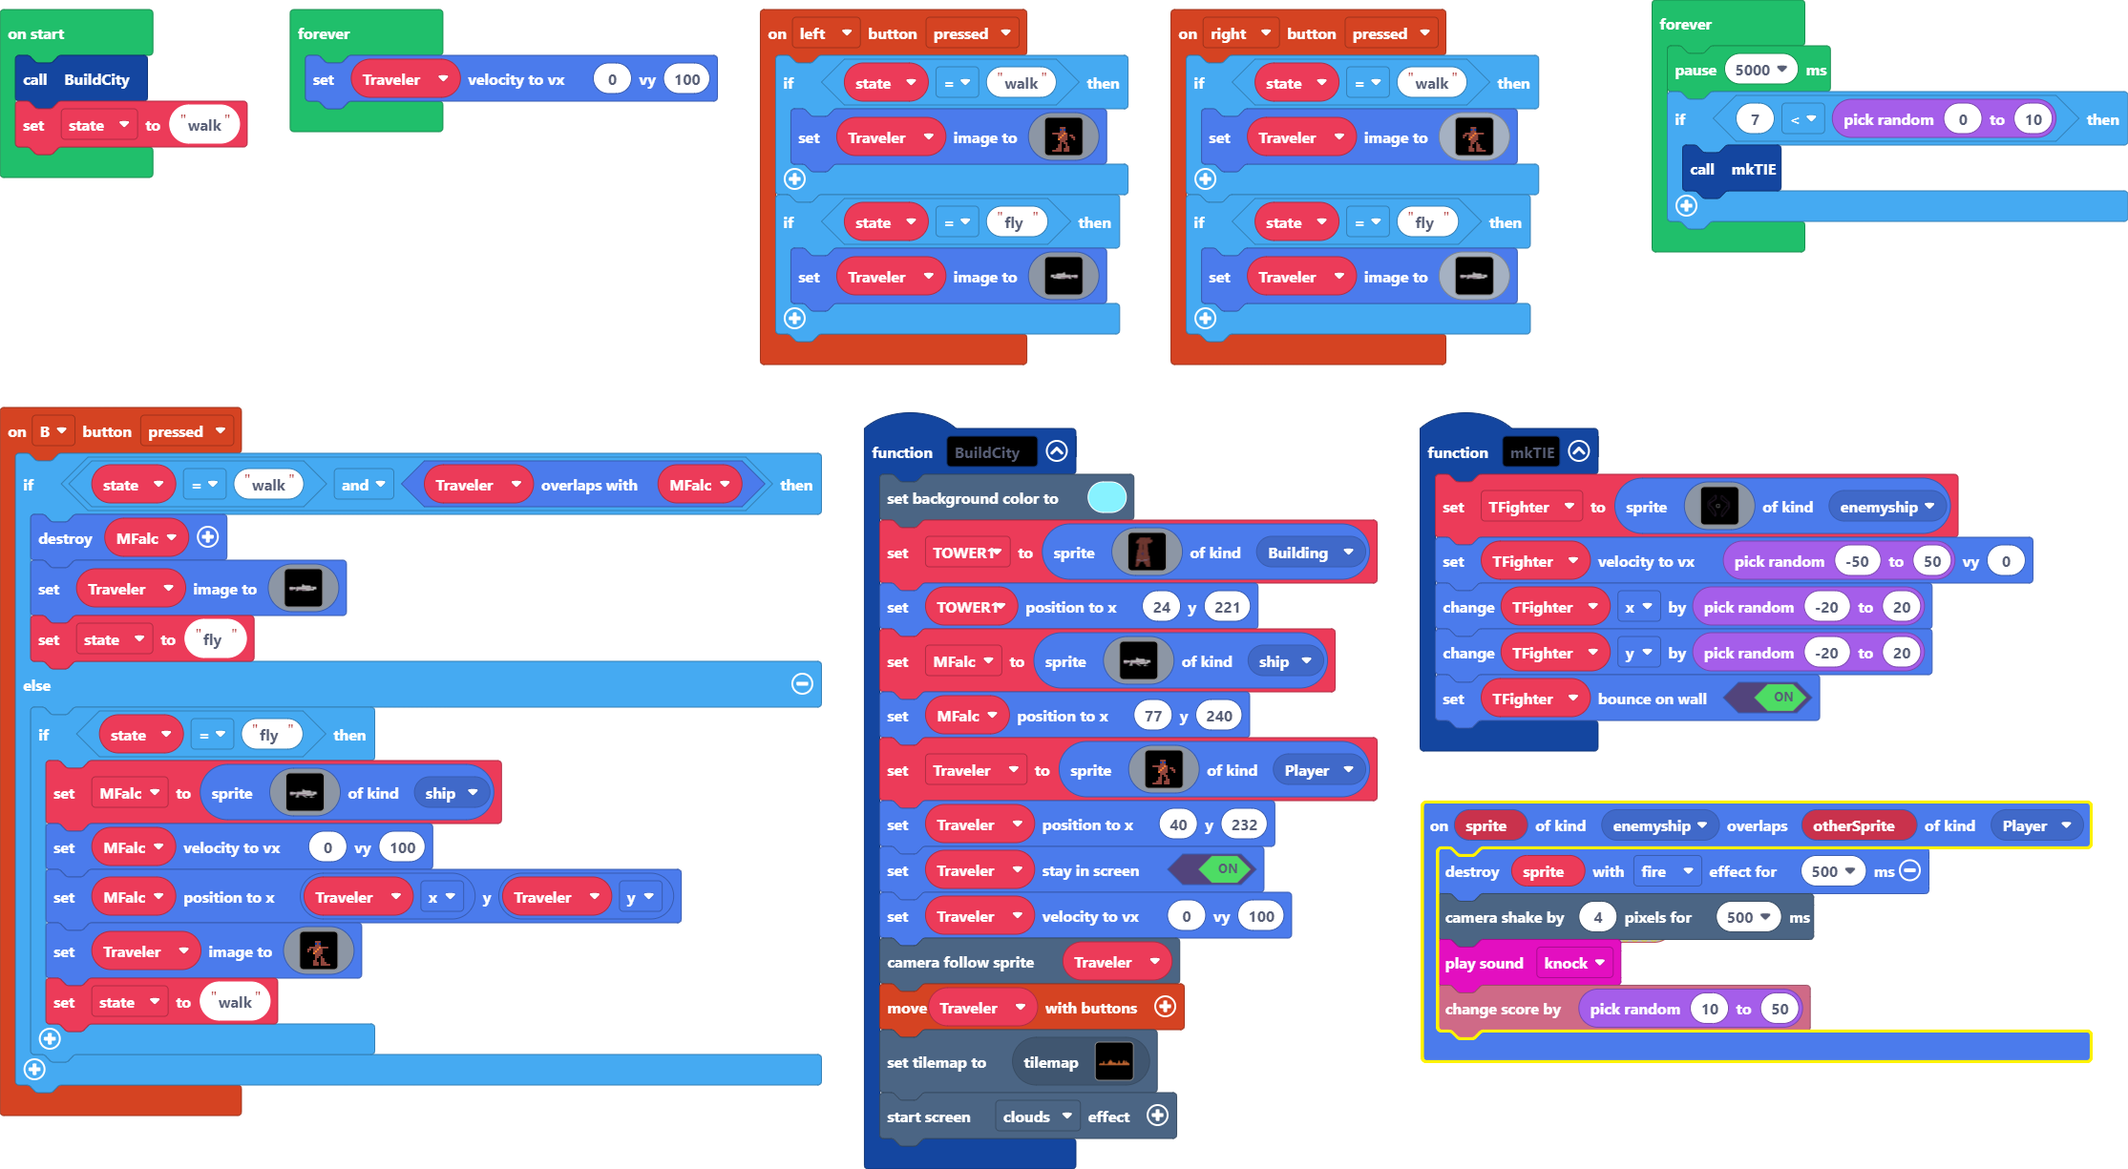
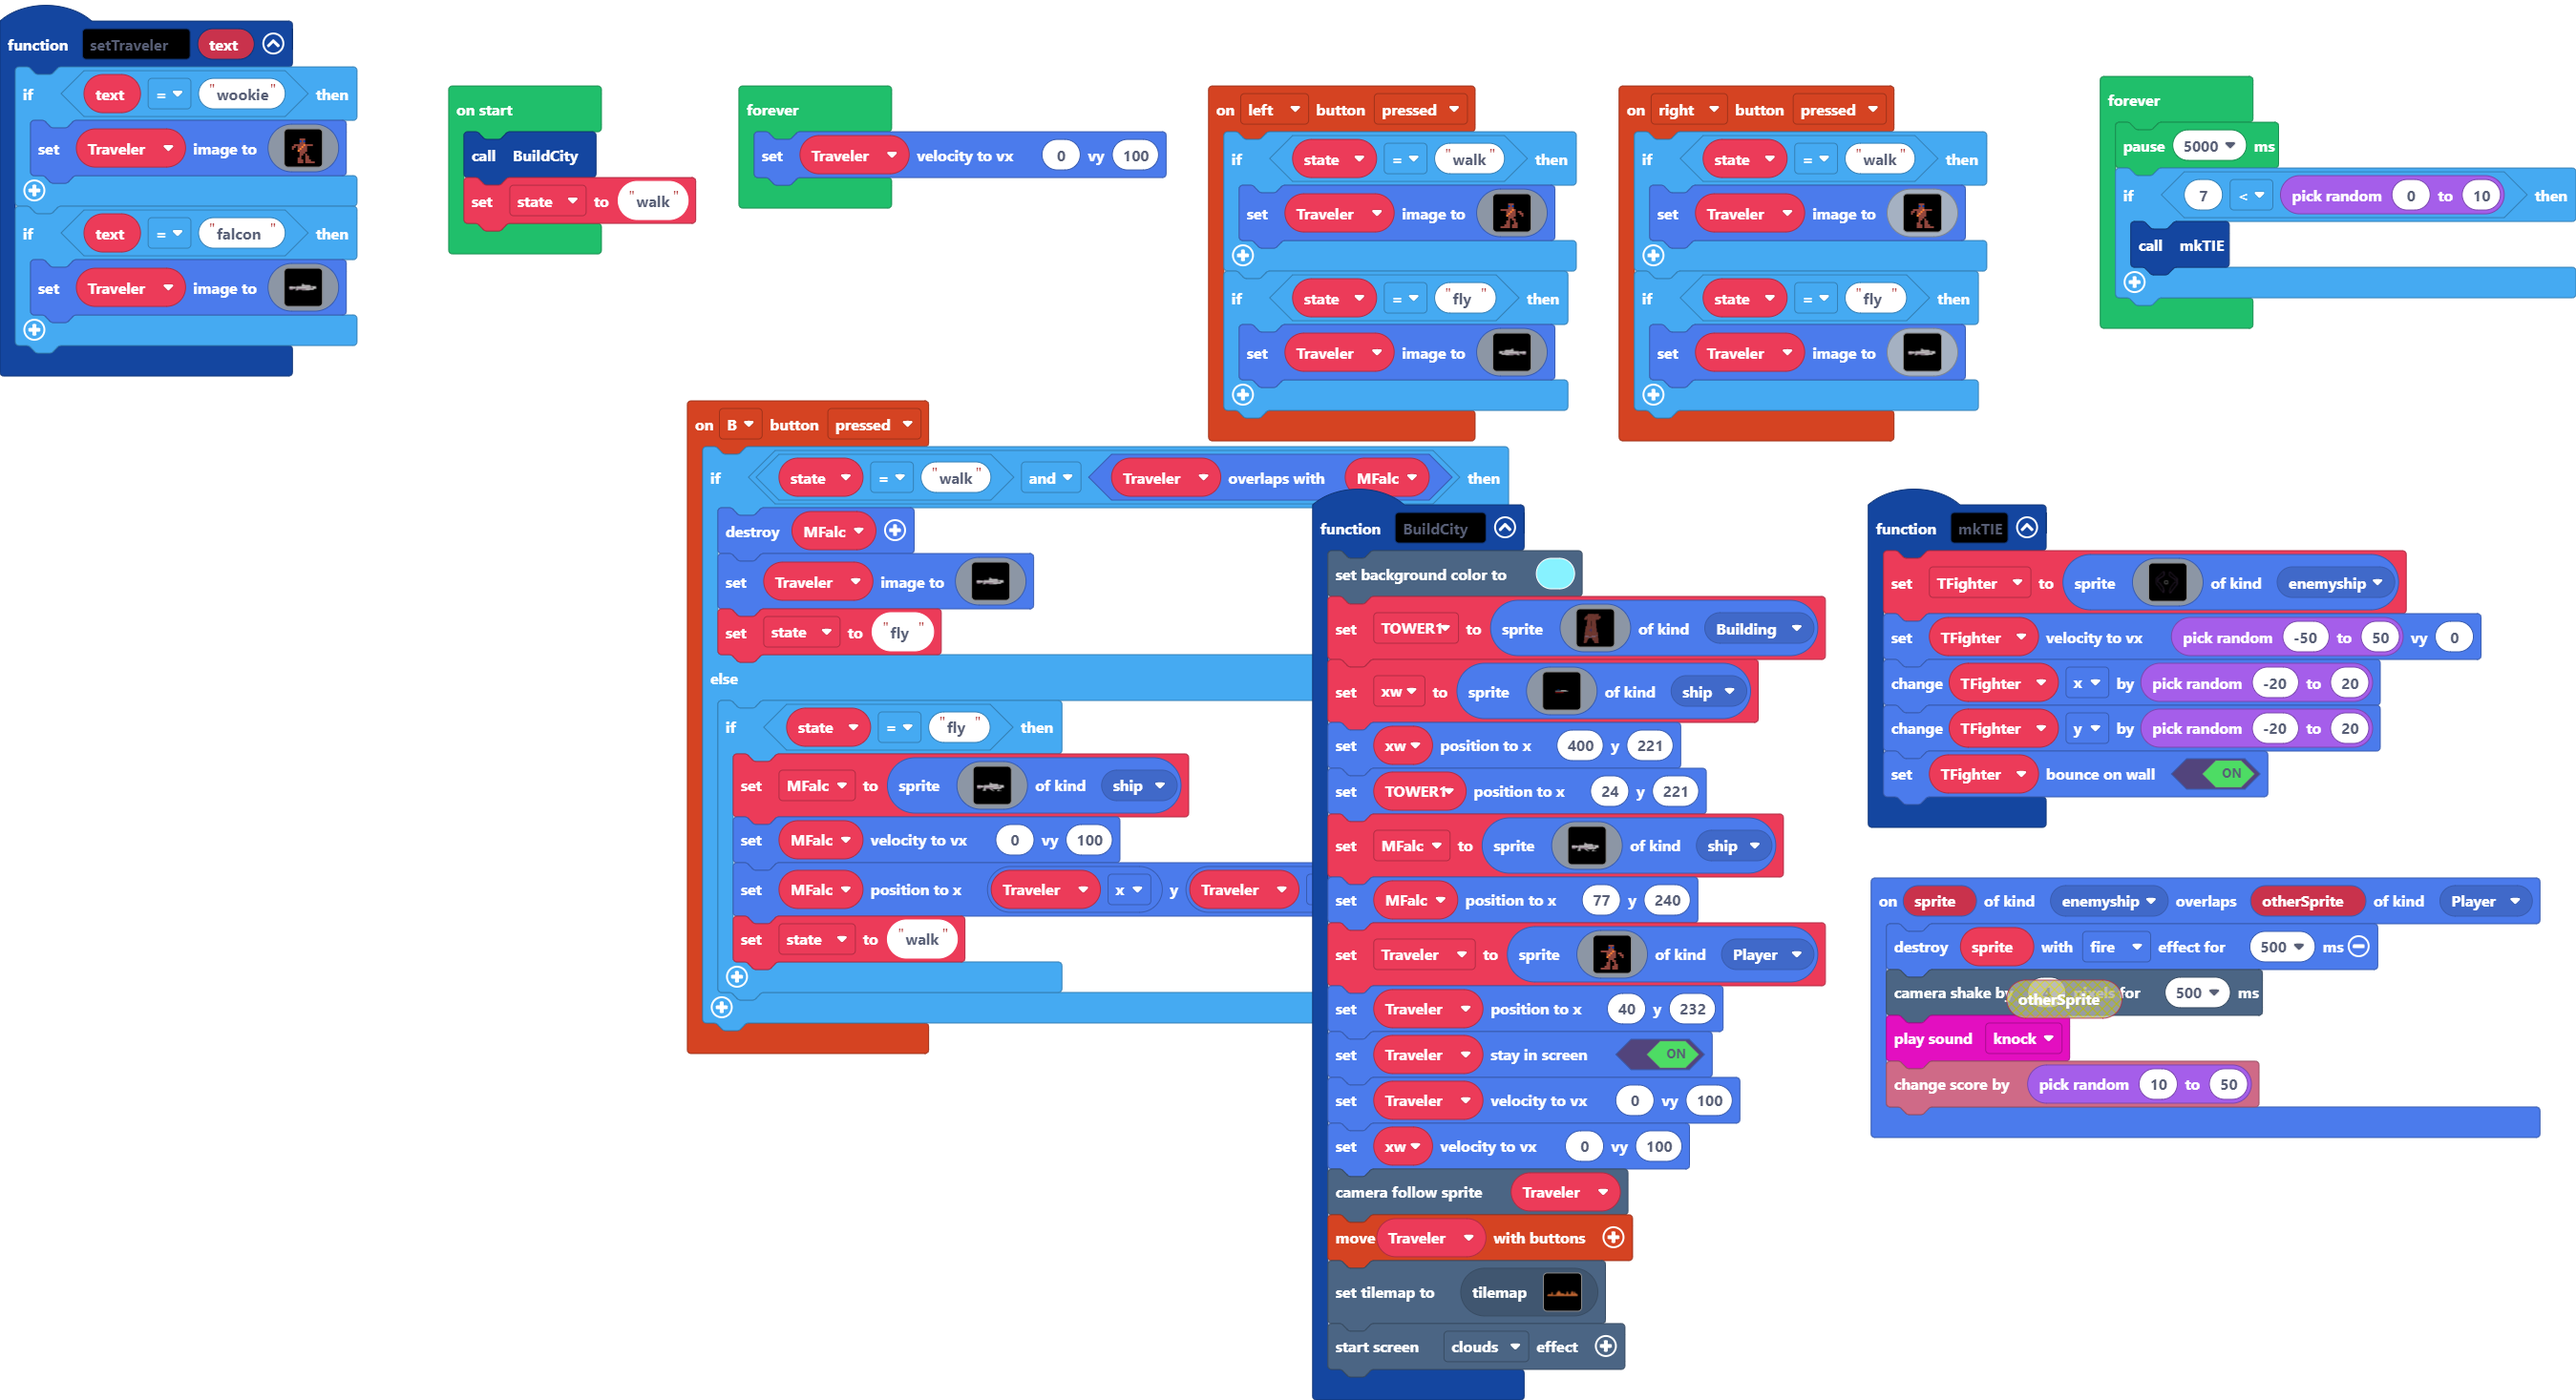
Update main.blocks, main.ts, tilemap.g.jres, tilemap.g.ts, images.g.jres, images.g.ts

diff --git a/tilemap.g.ts b/tilemap.g.ts
@@ -38,82 +38,6 @@ namespace myTiles {
 ................................................................
 ....................................................222222222...
 `, [myTiles.transparency16,myTiles.tile2,myTiles.tile3,myTiles.tile5,myTiles.tile6,myTiles.tile7], TileScale.Sixteen);
-            case "level2":
-            case "level2":return tiles.createTilemap(hex`1000100000000000000000000000000000000000000000000000000000000000000000000000000000000000000000000000000000000000000000000000000000000000000000000000000000000000000000000000000000000000000000000000000000000000000000000000000000000000000000000000000000000000000000000000000000000000000000000000000000000000000000000000000000000000000000000000000000000000000000000000000000000000000000000000000000000000000000000000000000000000000000000000000000000000000000000000000000000000000000000000000000000000000000000000000000000000`, img`
-. . . . . . . . . . . . . . . . 
-. . . . . . . . . . . . . . . . 
-. . . . . . . . . . . . . . . . 
-. . . . . . . . . . . . . . . . 
-. . . . . . . . . . . . . . . . 
-. . . . . . . . . . . . . . . . 
-. . . . . . . . . . . . . . . . 
-. . . . . . . . . . . . . . . . 
-. . . . . . . . . . . . . . . . 
-. . . . . . . . . . . . . . . . 
-. . . . . . . . . . . . . . . . 
-. . . . . . . . . . . . . . . . 
-. . . . . . . . . . . . . . . . 
-. . . . . . . . . . . . . . . . 
-. . . . . . . . . . . . . . . . 
-. . . . . . . . . . . . . . . . 
-`, [myTiles.transparency16], TileScale.Sixteen);
-            case "level3":
-            case "level3":return tiles.createTilemap(hex`1000100000000000000000000000000000000000000000000000000000000000000000000000000000000000000000000000000000000000000000000000000000000000000000000000000000000000000000000000000000000000000000000000000000000000000000000000000000000000000000000000000000000000000000000000000000000000000000000000000000000000000000000000000000000000000000000000000000000000000000000000000000000000000000000000000000000000000000000000000000000000000000000000000000000000000000000000000000000000000000000000000000000000000000000000000000000000`, img`
-. . . . . . . . . . . . . . . . 
-. . . . . . . . . . . . . . . . 
-. . . . . . . . . . . . . . . . 
-. . . . . . . . . . . . . . . . 
-. . . . . . . . . . . . . . . . 
-. . . . . . . . . . . . . . . . 
-. . . . . . . . . . . . . . . . 
-. . . . . . . . . . . . . . . . 
-. . . . . . . . . . . . . . . . 
-. . . . . . . . . . . . . . . . 
-. . . . . . . . . . . . . . . . 
-. . . . . . . . . . . . . . . . 
-. . . . . . . . . . . . . . . . 
-. . . . . . . . . . . . . . . . 
-. . . . . . . . . . . . . . . . 
-. . . . . . . . . . . . . . . . 
-`, [myTiles.transparency16], TileScale.Sixteen);
-            case "level4":
-            case "level4":return tiles.createTilemap(hex`1000100000000000000000000000000000000000000000000000000000000000000000000000000000000000000000000000000000000000000000000000000000000000000000000000000000000000000000000000000000000000000000000000000000000000000000000000000000000000000000000000000000000000000000000000000000000000000000000000000000000000000000000000000000000000000000000000000000000000000000000000000000000000000000000000000000000000000000000000000000000000000000000000000000000000000000000000000000000000000000000000000000000000000000000000000000000000`, img`
-. . . . . . . . . . . . . . . . 
-. . . . . . . . . . . . . . . . 
-. . . . . . . . . . . . . . . . 
-. . . . . . . . . . . . . . . . 
-. . . . . . . . . . . . . . . . 
-. . . . . . . . . . . . . . . . 
-. . . . . . . . . . . . . . . . 
-. . . . . . . . . . . . . . . . 
-. . . . . . . . . . . . . . . . 
-. . . . . . . . . . . . . . . . 
-. . . . . . . . . . . . . . . . 
-. . . . . . . . . . . . . . . . 
-. . . . . . . . . . . . . . . . 
-. . . . . . . . . . . . . . . . 
-. . . . . . . . . . . . . . . . 
-. . . . . . . . . . . . . . . . 
-`, [myTiles.transparency16], TileScale.Sixteen);
-            case "level5":
-            case "level5":return tiles.createTilemap(hex`1000100000000000000000000000000000000000000000000000000000000000000000000000000000000000000000000000000000000000000000000000000000000000000000000000000000000000000000000000000000000000000000000000000000000000000000000000000000000000000000000000000000000000000000000000000000000000000000000000000000000000000000000000000000000000000000000000000000000000000000000000000000000000000000000000000000000000000000000000000000000000000000000000000000000000000000000000000000000000000000000000000000000000000000000000000000000000`, img`
-. . . . . . . . . . . . . . . . 
-. . . . . . . . . . . . . . . . 
-. . . . . . . . . . . . . . . . 
-. . . . . . . . . . . . . . . . 
-. . . . . . . . . . . . . . . . 
-. . . . . . . . . . . . . . . . 
-. . . . . . . . . . . . . . . . 
-. . . . . . . . . . . . . . . . 
-. . . . . . . . . . . . . . . . 
-. . . . . . . . . . . . . . . . 
-. . . . . . . . . . . . . . . . 
-. . . . . . . . . . . . . . . . 
-. . . . . . . . . . . . . . . . 
-. . . . . . . . . . . . . . . . 
-. . . . . . . . . . . . . . . . 
-. . . . . . . . . . . . . . . . 
-`, [myTiles.transparency16], TileScale.Sixteen);
         }
         return null;
     })

diff --git a/images.g.ts b/images.g.ts
@@ -302,6 +302,63 @@ eeeeffffffffffffffffffffeeeeeeeeee................
 ................................................................................
 ................................................................................
 `;
+            case "image8":
+            case "xwing":return img`
+................................................
+................................................
+................................................
+................................................
+................................................
+................................................
+................................................
+.................888...ffffffff.................
+..............fffffffff11111111fff..............
+......ffffffff11111111111111111111ffff..........
+..ffffffffffffffffffffffffffffffffffffffffff....
+......ffffffff2222222222222fffffffffffff........
+.............ffffffffffffff......f..............
+.............f....................f.............
+............f.....................fff...........
+............f........................f..........
+`;
+            case "image9":
+            case "xwingR":return img`
+................................................
+................................................
+................................................
+................................................
+................................................
+................................................
+.......ffffffffffffff..ffffffff.................
+..........ff8888fffffff11111111fff..............
+......ffffff8888f11111111111111111ffff..........
+..ffffffffffffffffffffffffffffffffffffffffff....
+......ffffff8888f2222222222fffffffffffff........
+..........ff8888fffffffffff.....................
+..........ff8888f...............................
+.......ffffffffffffffff.........................
+................................................
+................................................
+`;
+            case "image10":
+            case "xwingL":return img`
+................................................
+................................................
+................................................
+................................................
+................................................
+................fffffffff.fffffffffffffff.......
+................fffffffff.fffffffffffffff.......
+.............fff111111111fffffff8888ff..........
+.........ffff111111111111111111f8888ffffff......
+...ffffffffffffffffffffffffffffffffffffffffffff.
+.......fffffffffffff22222222222f8888ffffff......
+....................ffffffffffff8888ff..........
+...............................f8888ff..........
+.........................ffffffffffffffff.......
+................................................
+................................................
+`;
         }
         return null;
     })

diff --git a/main.ts b/main.ts
@@ -6,6 +6,8 @@ namespace SpriteKind {
 function BuildCity () {
     scene.setBackgroundColor(9)
     TOWER1 = sprites.create(assets.image`Tower`, SpriteKind.Building)
+    xw = sprites.create(assets.image`xwing`, SpriteKind.ship)
+    xw.setPosition(400, 221)
     TOWER1.setPosition(24, 221)
     MFalc = sprites.create(assets.image`Falcon`, SpriteKind.ship)
     MFalc.setPosition(77, 240)
@@ -13,6 +15,7 @@ function BuildCity () {
     Traveler.setPosition(40, 232)
     Traveler.setStayInScreen(true)
     Traveler.setVelocity(0, 100)
+    xw.setVelocity(0, 100)
     scene.cameraFollowSprite(Traveler)
     controller.moveSprite(Traveler)
     tiles.setCurrentTilemap(tilemap`TwinSpires`)
@@ -28,11 +31,18 @@ controller.B.onEvent(ControllerButtonEvent.Pressed, function () {
             MFalc = sprites.create(assets.image`Falcon`, SpriteKind.ship)
             MFalc.setVelocity(0, 100)
             MFalc.setPosition(Traveler.x, Traveler.y)
-            Traveler.setImage(assets.image`wookier`)
             state = "walk"
         }
     }
 })
+function setTraveler (text: string) {
+    if (text == "wookie") {
+        Traveler.setImage(assets.image`wookier`)
+    }
+    if (text == "falcon") {
+        Traveler.setImage(assets.image`FalconRight`)
+    }
+}
 controller.left.onEvent(ControllerButtonEvent.Pressed, function () {
     if (state == "walk") {
         Traveler.setImage(assets.image`wookiel`)
@@ -65,6 +75,7 @@ sprites.onOverlap(SpriteKind.enemyship, SpriteKind.Player, function (sprite, oth
 let TFighter: Sprite = null
 let Traveler: Sprite = null
 let MFalc: Sprite = null
+let xw: Sprite = null
 let TOWER1: Sprite = null
 let state = ""
 BuildCity()
